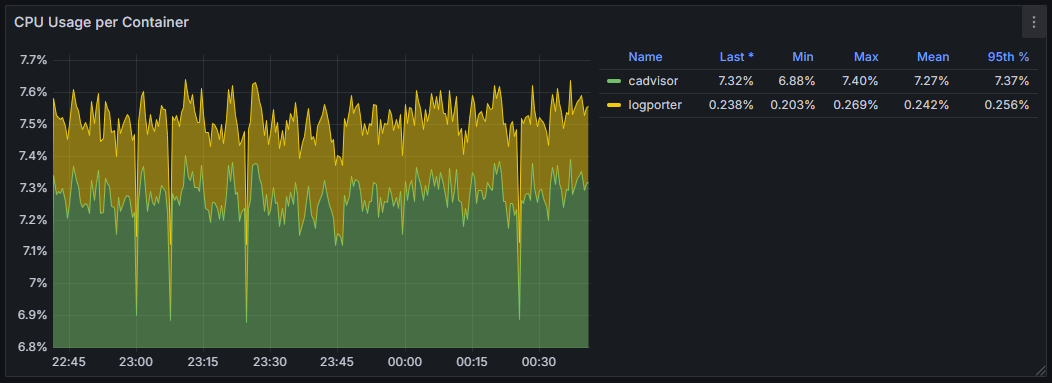
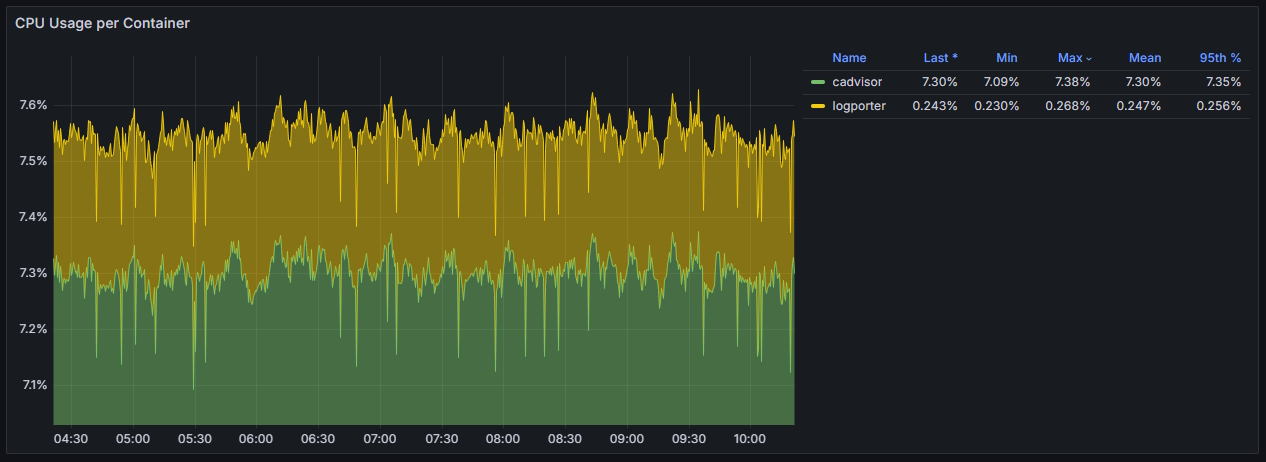
update examples in the last 6 hours by 2 hosts

diff --git a/README.md b/README.md
@@ -1,19 +1,17 @@
 # logporter
 
-A simple and lightweight alternative to [cAdvisor](https://github.com/google/cadvisor) (on average 20 times faster, by the results of both exporters) for getting all basic metrics from Docker containers, and also supports getting metrics by logs.
+A simple and lightweight alternative to [cAdvisor](https://github.com/google/cadvisor) for getting all basic metrics from Docker containers with support metrics by logs.
 
-CPU load measurements in the `cAdvisor` for the last 2 hours:
+Comparative measurement of CPU load using `cAdvisor` and `logporter` metrics:
 
 ![](/img/cadvisor.jpg)
-
-CPU load measurements in the `logporter` for the last 2 hours:
 
 ![](/img/logporter.jpg)
 
 ## Why collect log counts?
 
-- Monitor the number of errors in logs using a custom query.
-- Compare the increased load with the number of logged messages. If the application is not resource-intensive, the number of logged messages will show the increased load.
+- Monitor the frequency and number of errors in logs using a custom query.
+- Compare the load increase with the number of logged messages. If the application does not consume many resources, the number of logged messages will reflect the load increase.
 - Speed up log analysis by displaying at what point in time the most messages were received from the standard and error stream.
 
 > [!WARNING]
@@ -40,7 +38,7 @@ git clone https://github.com/Lifailon/logporter
 cd logporter
 docker build -t lifailon/logporter .
 # or build for different architectures
-docker buildx build --platform linux/amd64,linux/arm64 .
+docker buildx build --platform linux/amd64,linux/arm64 -t lifailon/logporter .
 ```
 
 ## Install
@@ -86,8 +84,8 @@ scrape_configs:
 > [!NOTE]
 > Use the request processing time metrics in the exporter logs to configure polling intervals and response waits in Prometheus (this is only relevant if you are using custom metrics for getting logs count).
 
-- Import the prepared public [Grafana dashboard](https://grafana.com/grafana/dashboards/23573-docker-exporter-logporter) using the id `23573` or from a [json](https://github.com/Lifailon/logporter/blob/main/grafana/dashboard.json) file.
+- Import the prepared public [Grafana dashboard](https://grafana.com/grafana/dashboards/23573-docker-exporter-logporter) using the id `23573` or from [json](https://github.com/Lifailon/logporter/blob/main/grafana-dashboard.json) file.
 
-![](/img/basic-metrics.jpg)
+![](/img/metrics-1.jpg)
 
-![](/img/other-metrics.jpg)
+![](/img/metrics-2.jpg)
